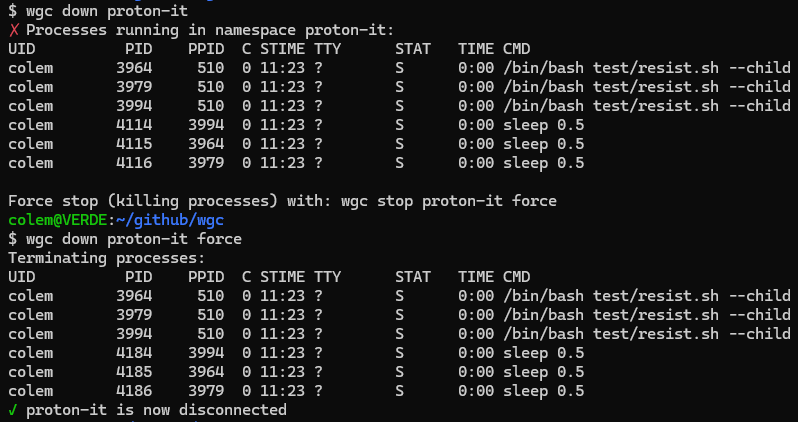
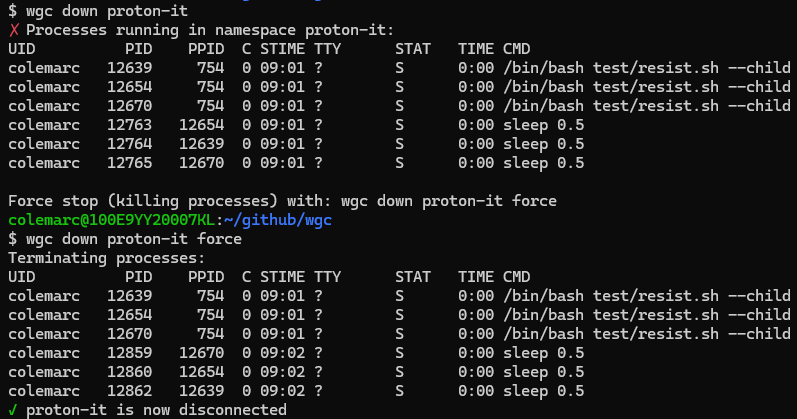
Some cosmetic fixes

diff --git a/README.md b/README.md
@@ -57,7 +57,7 @@ export WGC_CFGDIR=/path/to/your/configs
 wgc list
 ```
 
-The script uses the filename (without the `.conf` extension) as the VPN identifier. For example, a file at `/etc/wireguard/proton-it.conf` will be managed as the `proton-it` VPN.
+The script uses the filename (without the `.conf` extension) as the VPN identifier. For example, a file at `$WGC_CFGDIR/proton-it.conf` will be managed as the `proton-it` VPN.
 
 **Note:** Config files named with the pattern `wg[0-9]+` (e.g., `wg0.conf`, `wg1.conf`) are excluded from management to avoid conflicts with system interfaces.
 
@@ -117,7 +117,7 @@ The script requires `sudo` or root access because it manipulates network interfa
   
   A default route (0.0.0.0/0) will be added for the VPN tunnel, so any application will have its network traffic routed through it.
   
-  **Note:** Applications with network listeners (e.g., web interfaces on TCP ports) will be unreachable from outside the namespace unless you configure port forwarding. Applications with GUI or terminal interfaces remain fully accessible.
+  **Note:** Applications with network listeners (e.g., web interfaces on TCP ports) will be unreachable from outside the VPN namespace unless you set up port forwarding (built in support coming soon) or a *veth* (virtual ethernet) connecting the default namespace with the VPN namespace.  Applications with GUI or terminal interfaces remain fully accessible.
   
   ```bash
   wgc nup proton-it
@@ -252,7 +252,7 @@ wgc nup proton-it
 wgc exec proton-it firefox
 
 # When done, stop the VPN (will ask to force if Firefox is running)
-wgc down proton-it force
+wgc down proton-it
 ```
 
 ### Checking VPN connectivity
